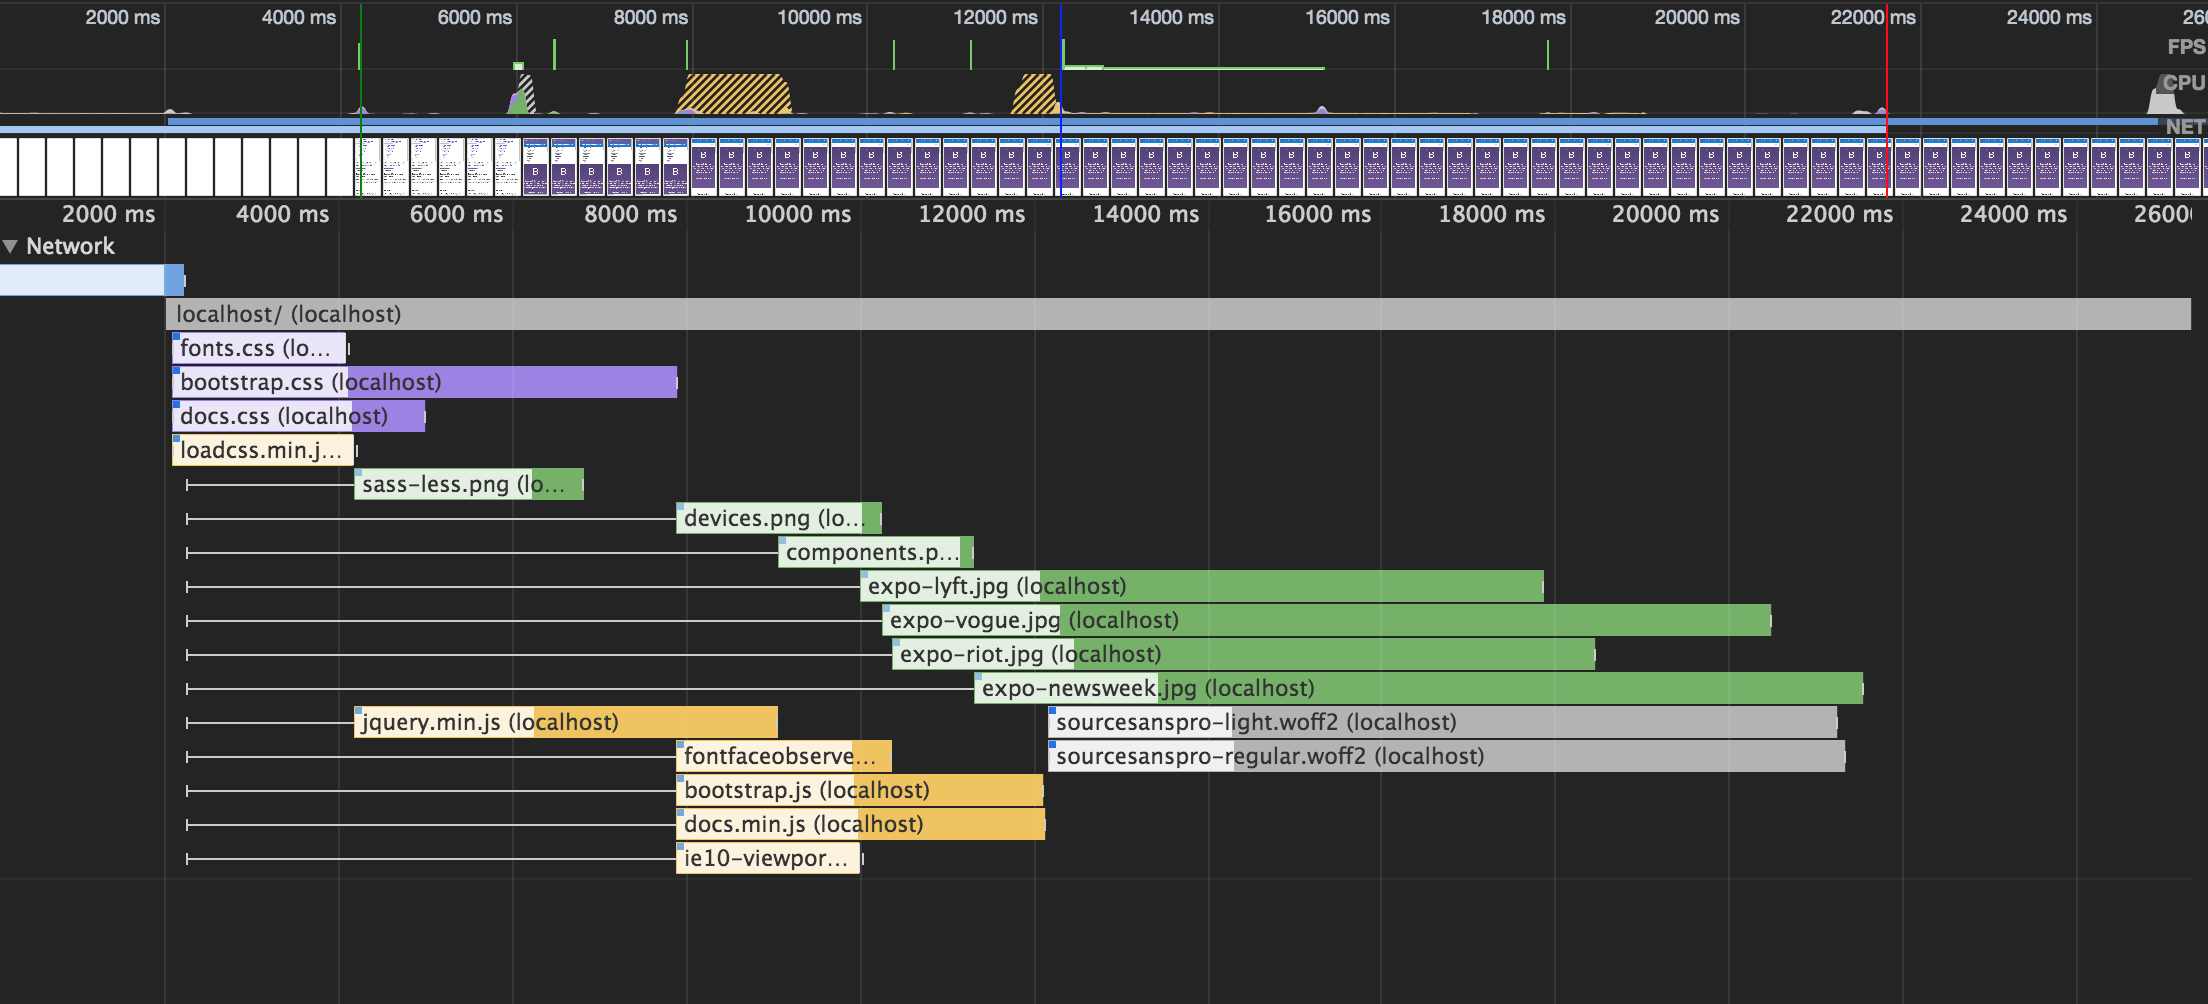
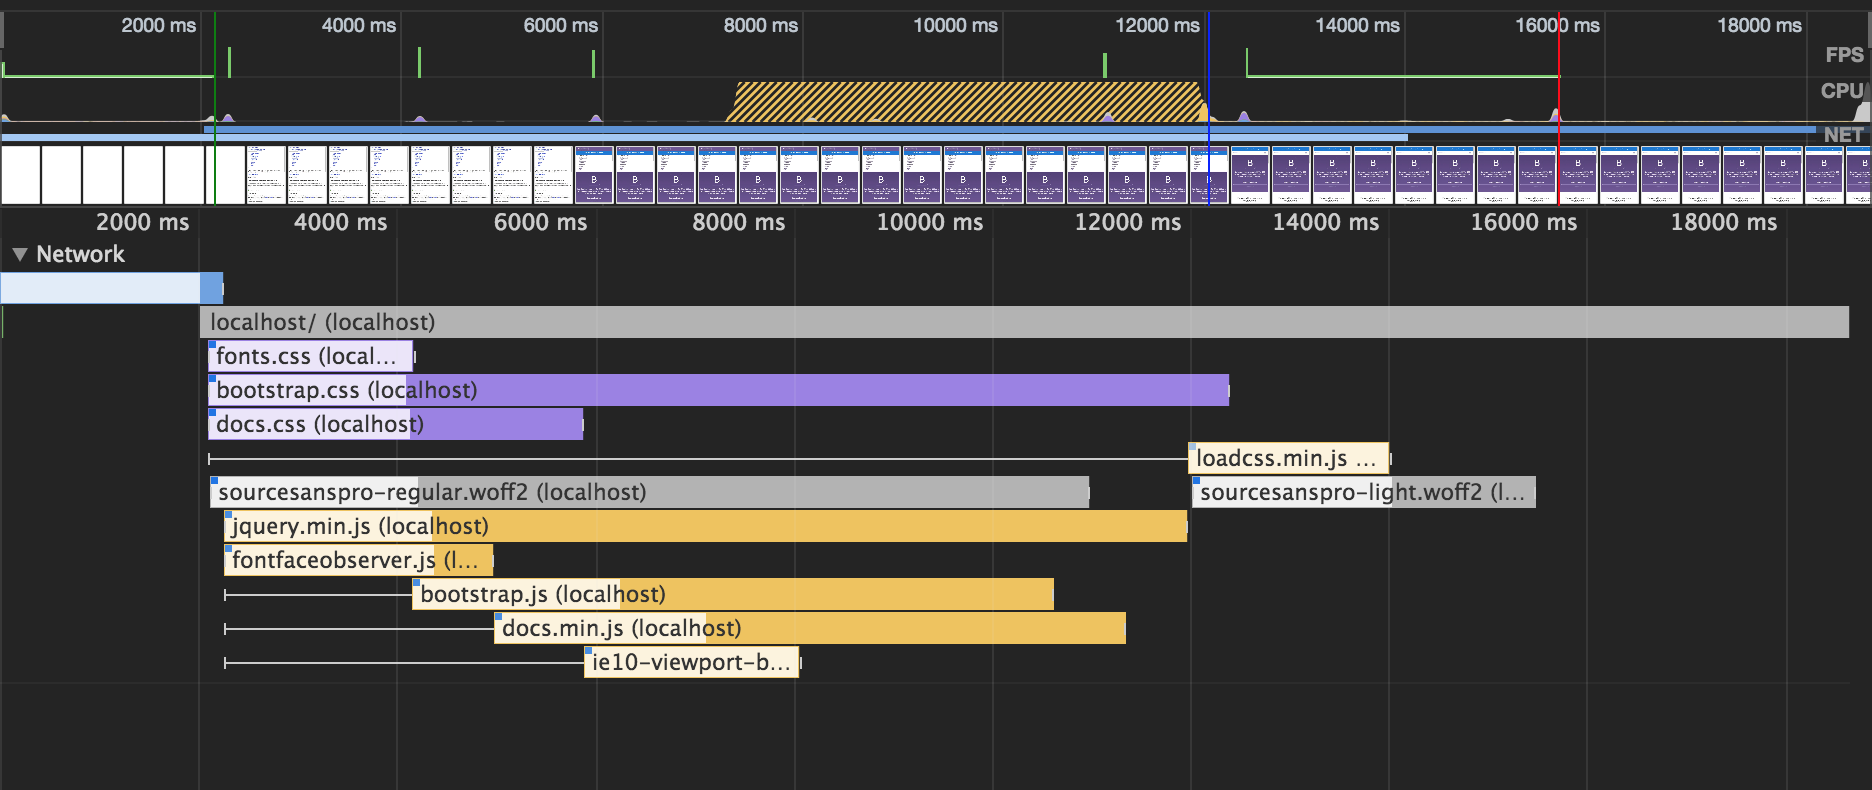
Update results

diff --git a/src/_base/layout.html b/src/_base/layout.html
@@ -13,7 +13,7 @@
     <link href="/assets/css/src/docs.css" rel="preload" as="style" onload="this.onload=null;this.rel='stylesheet'">
 	 <noscript><link href="/assets/css/src/docs.css" rel="stylesheet"></noscript>
 	 
-	 <script src="/assets/js/vendor/loadcss.min.js"></script>
+	 <script src="/assets/js/vendor/loadcss.min.js" async defer></script>
 
     <script>!function(n){"use strict";n.loadCSS||(n.loadCSS=function(){});var o=loadCSS.relpreload={};if(o.support=function(){var e;try{e=n.document.createElement("link").relList.supports("preload")}catch(t){e=!1}return function(){return e}}(),o.bindMediaToggle=function(t){var e=t.media||"all";function a(){t.media=e}t.addEventListener?t.addEventListener("load",a):t.attachEvent&&t.attachEvent("onload",a),setTimeout(function(){t.rel="stylesheet",t.media="only x"}),setTimeout(a,3e3)},o.poly=function(){if(!o.support())for(var t=n.document.getElementsByTagName("link"),e=0;e<t.length;e++){var a=t[e];"preload"!==a.rel||"style"!==a.getAttribute("as")||a.getAttribute("data-loadcss")||(a.setAttribute("data-loadcss",!0),o.bindMediaToggle(a))}},!o.support()){o.poly();var t=n.setInterval(o.poly,500);n.addEventListener?n.addEventListener("load",function(){o.poly(),n.clearInterval(t)}):n.attachEvent&&n.attachEvent("onload",function(){o.poly(),n.clearInterval(t)})}"undefined"!=typeof exports?exports.loadCSS=loadCSS:n.loadCSS=loadCSS}("undefined"!=typeof global?global:this);</script>
 
@@ -50,7 +50,7 @@
 
 		}(document));
 	</script>
-	
+
 	 <script>
 			// Thanks to https://github.com/moniac
 			 const images = document.querySelectorAll('.img-responsive');

diff --git a/audit.md b/audit.md
@@ -1,6 +1,8 @@
 # The audit documentation
 
-This documents documents the audit
+This documents documents the audit.
+
+*The status written under network tab are the averages and may be off a few ms with each load.*
 
 ## Table of Contents
 - [Settings & Tools](#setting-&-tools)
@@ -23,7 +25,6 @@ The used settings and tools:
 ### Settings
 - Disable cache 
 - Throttle: 3G Slow
-- 
 
 ### Browser
 - Google Chrome
@@ -199,11 +200,11 @@ Network tab - First load/above the fold
 The result till now after merging all the changes:
 
 Network tab
-- 19 requests
-- 833 kb Transfered
-- Finish: 21.60s
-- DOMContentLoaded: 12.14s
-- Load: 21.61s
+- 12 requests
+- 498 kb Transfered
+- Finish: 15.49s
+- DOMContentLoaded: 12.01s
+- Load: 15.51s
 
 ![after summary][a-summary]
 
@@ -214,11 +215,11 @@ Network tab
 ![after network][a-network]
 
 
-The Google LightHouse audit score went from 47 to a 82.
+The Google LightHouse audit score went from 47 to a nice 89.
 
-Around **5 seconds** has been shaved off from the *first meaningfull paint* from 6 360ms to 1 270ms! and almost 2 seconds first interactive and consistency interactive.
+Around **5 seconds** has been shaved off from the *first meaningful paint* from 6 360ms to 720ms! and almost 4 seconds first interactive and consistency interactive.
 
-Almost 10 seconds have and 400KB have been saved too.
+Almost 15 seconds have and 700KB have been saved too.
 
 
 ### What can you do
@@ -226,6 +227,7 @@ Almost 10 seconds have and 400KB have been saved too.
 More things that can increase the performance is to:
 - Subset the fonts
 - Cache the images for re-visites to the site
+- Compress served files (gzip, deflate or brotli)
 
 
 
